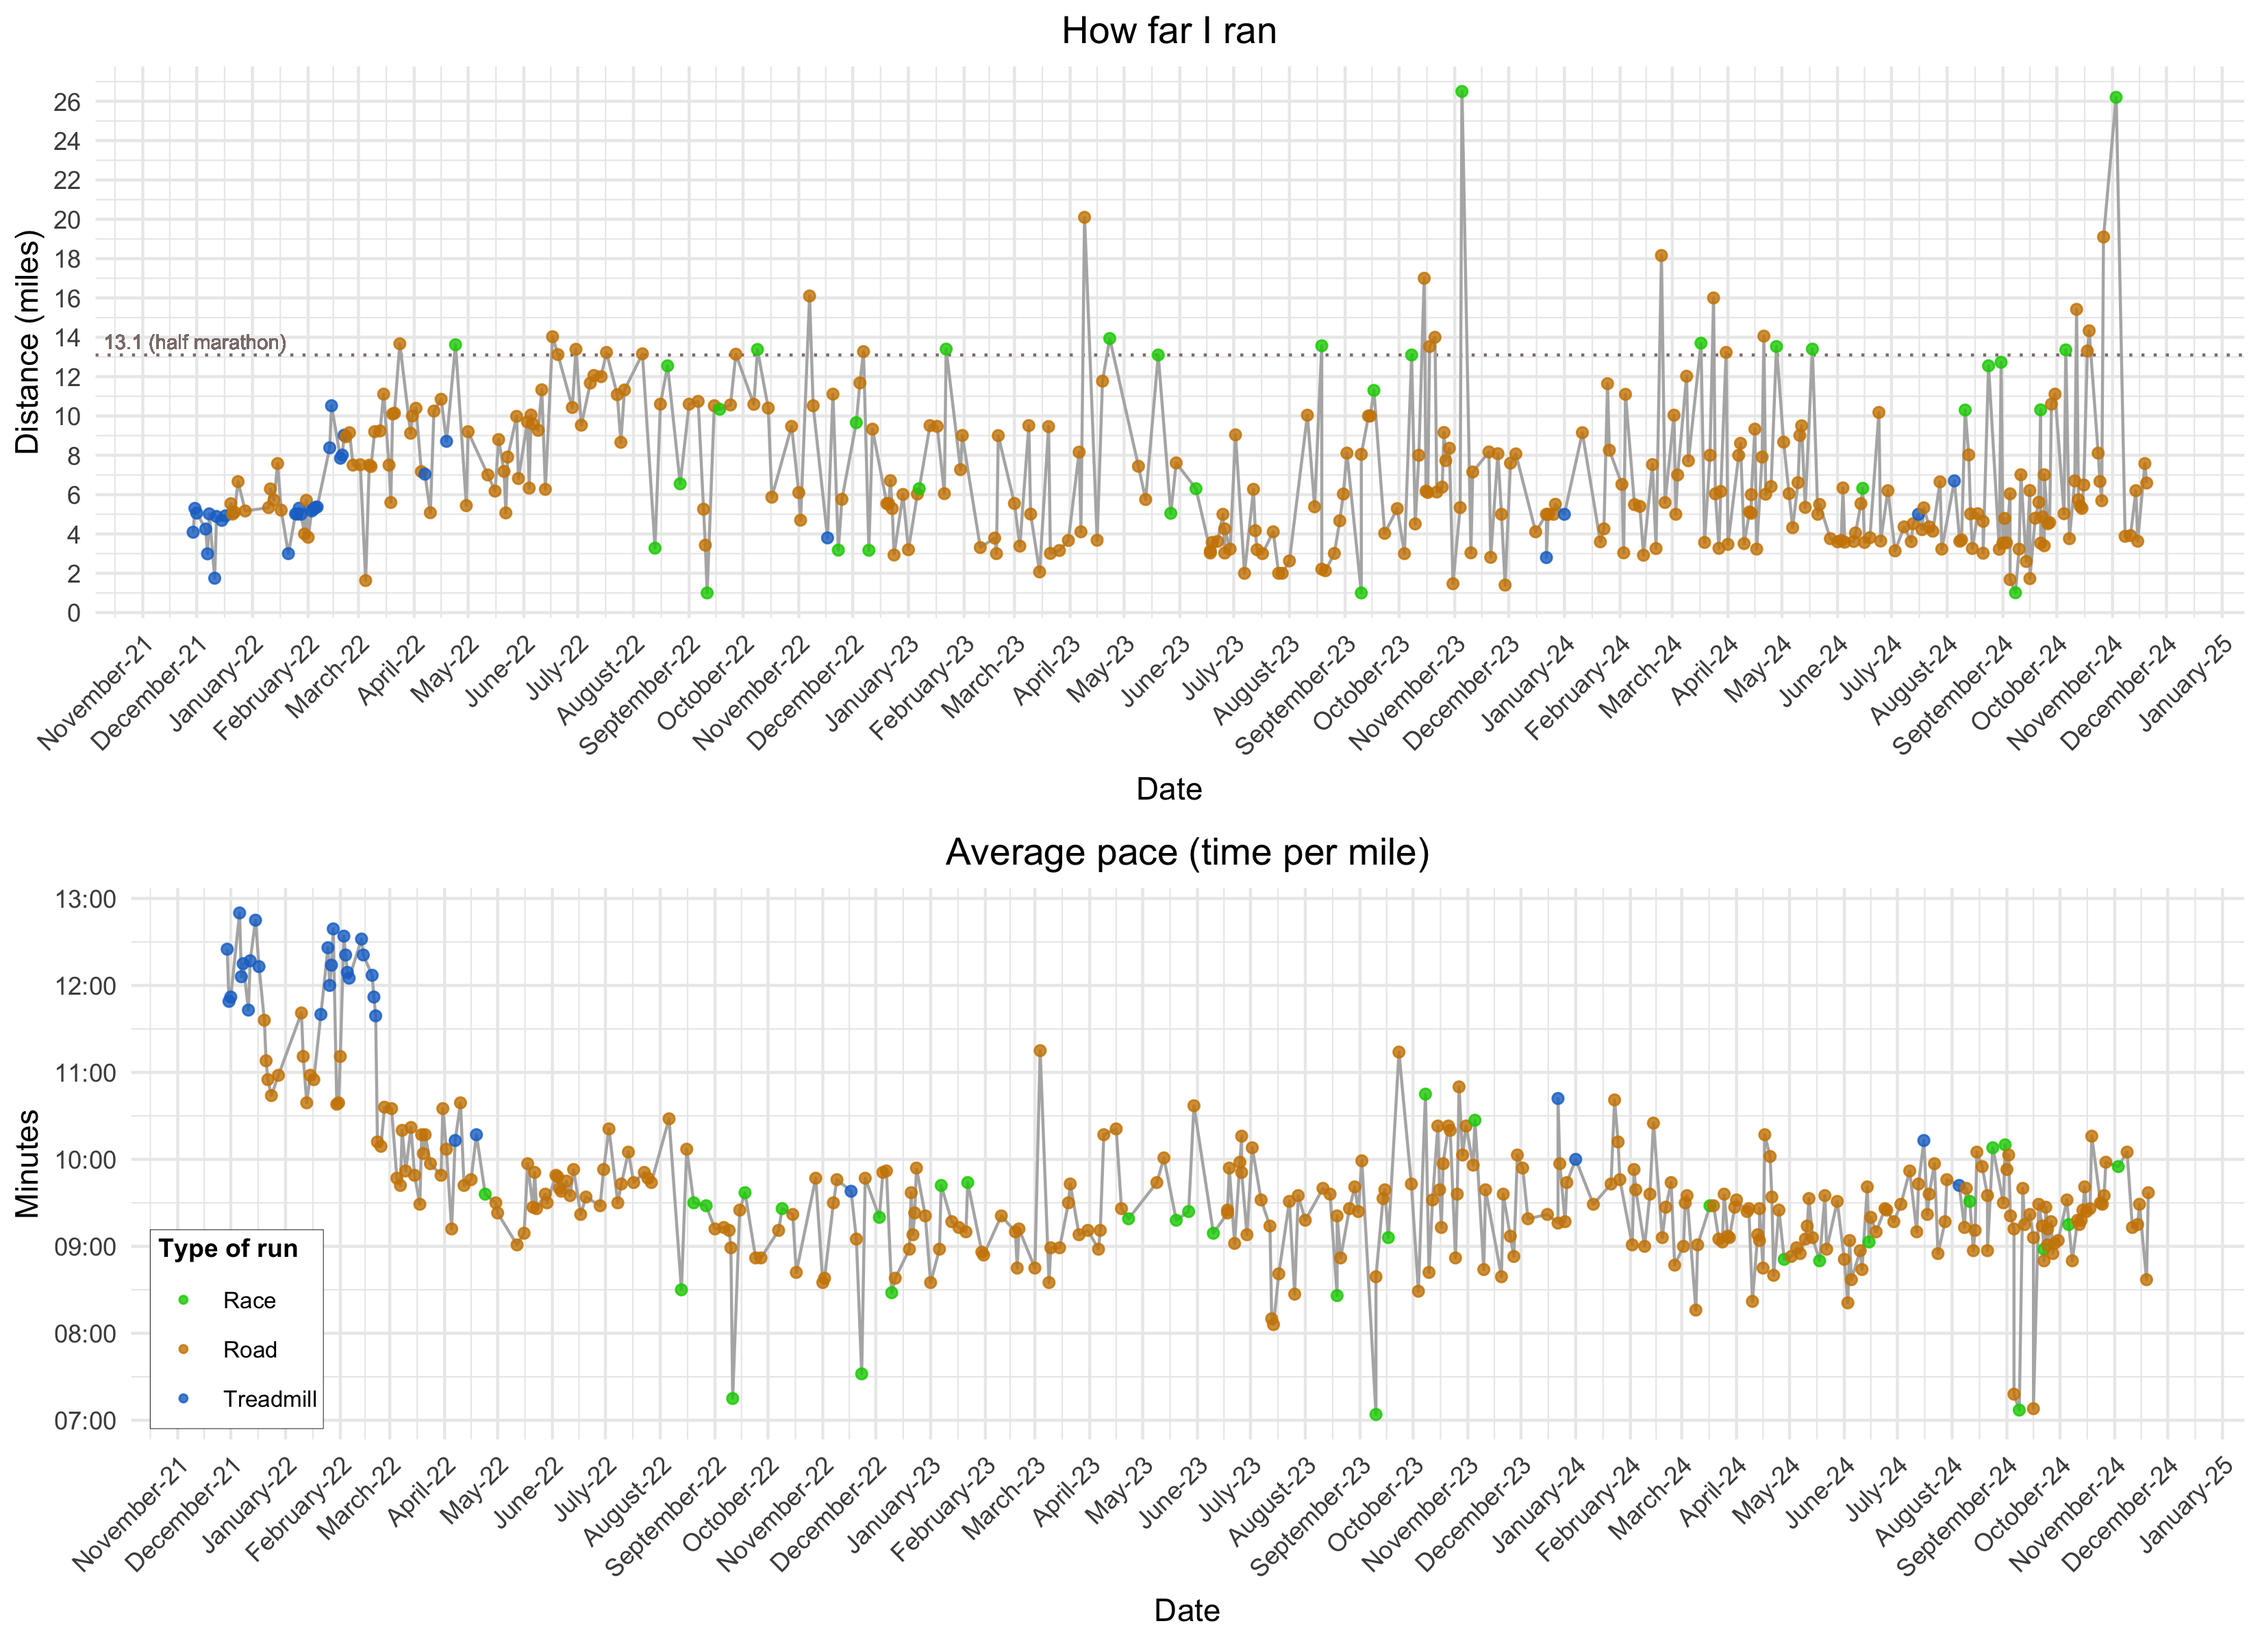
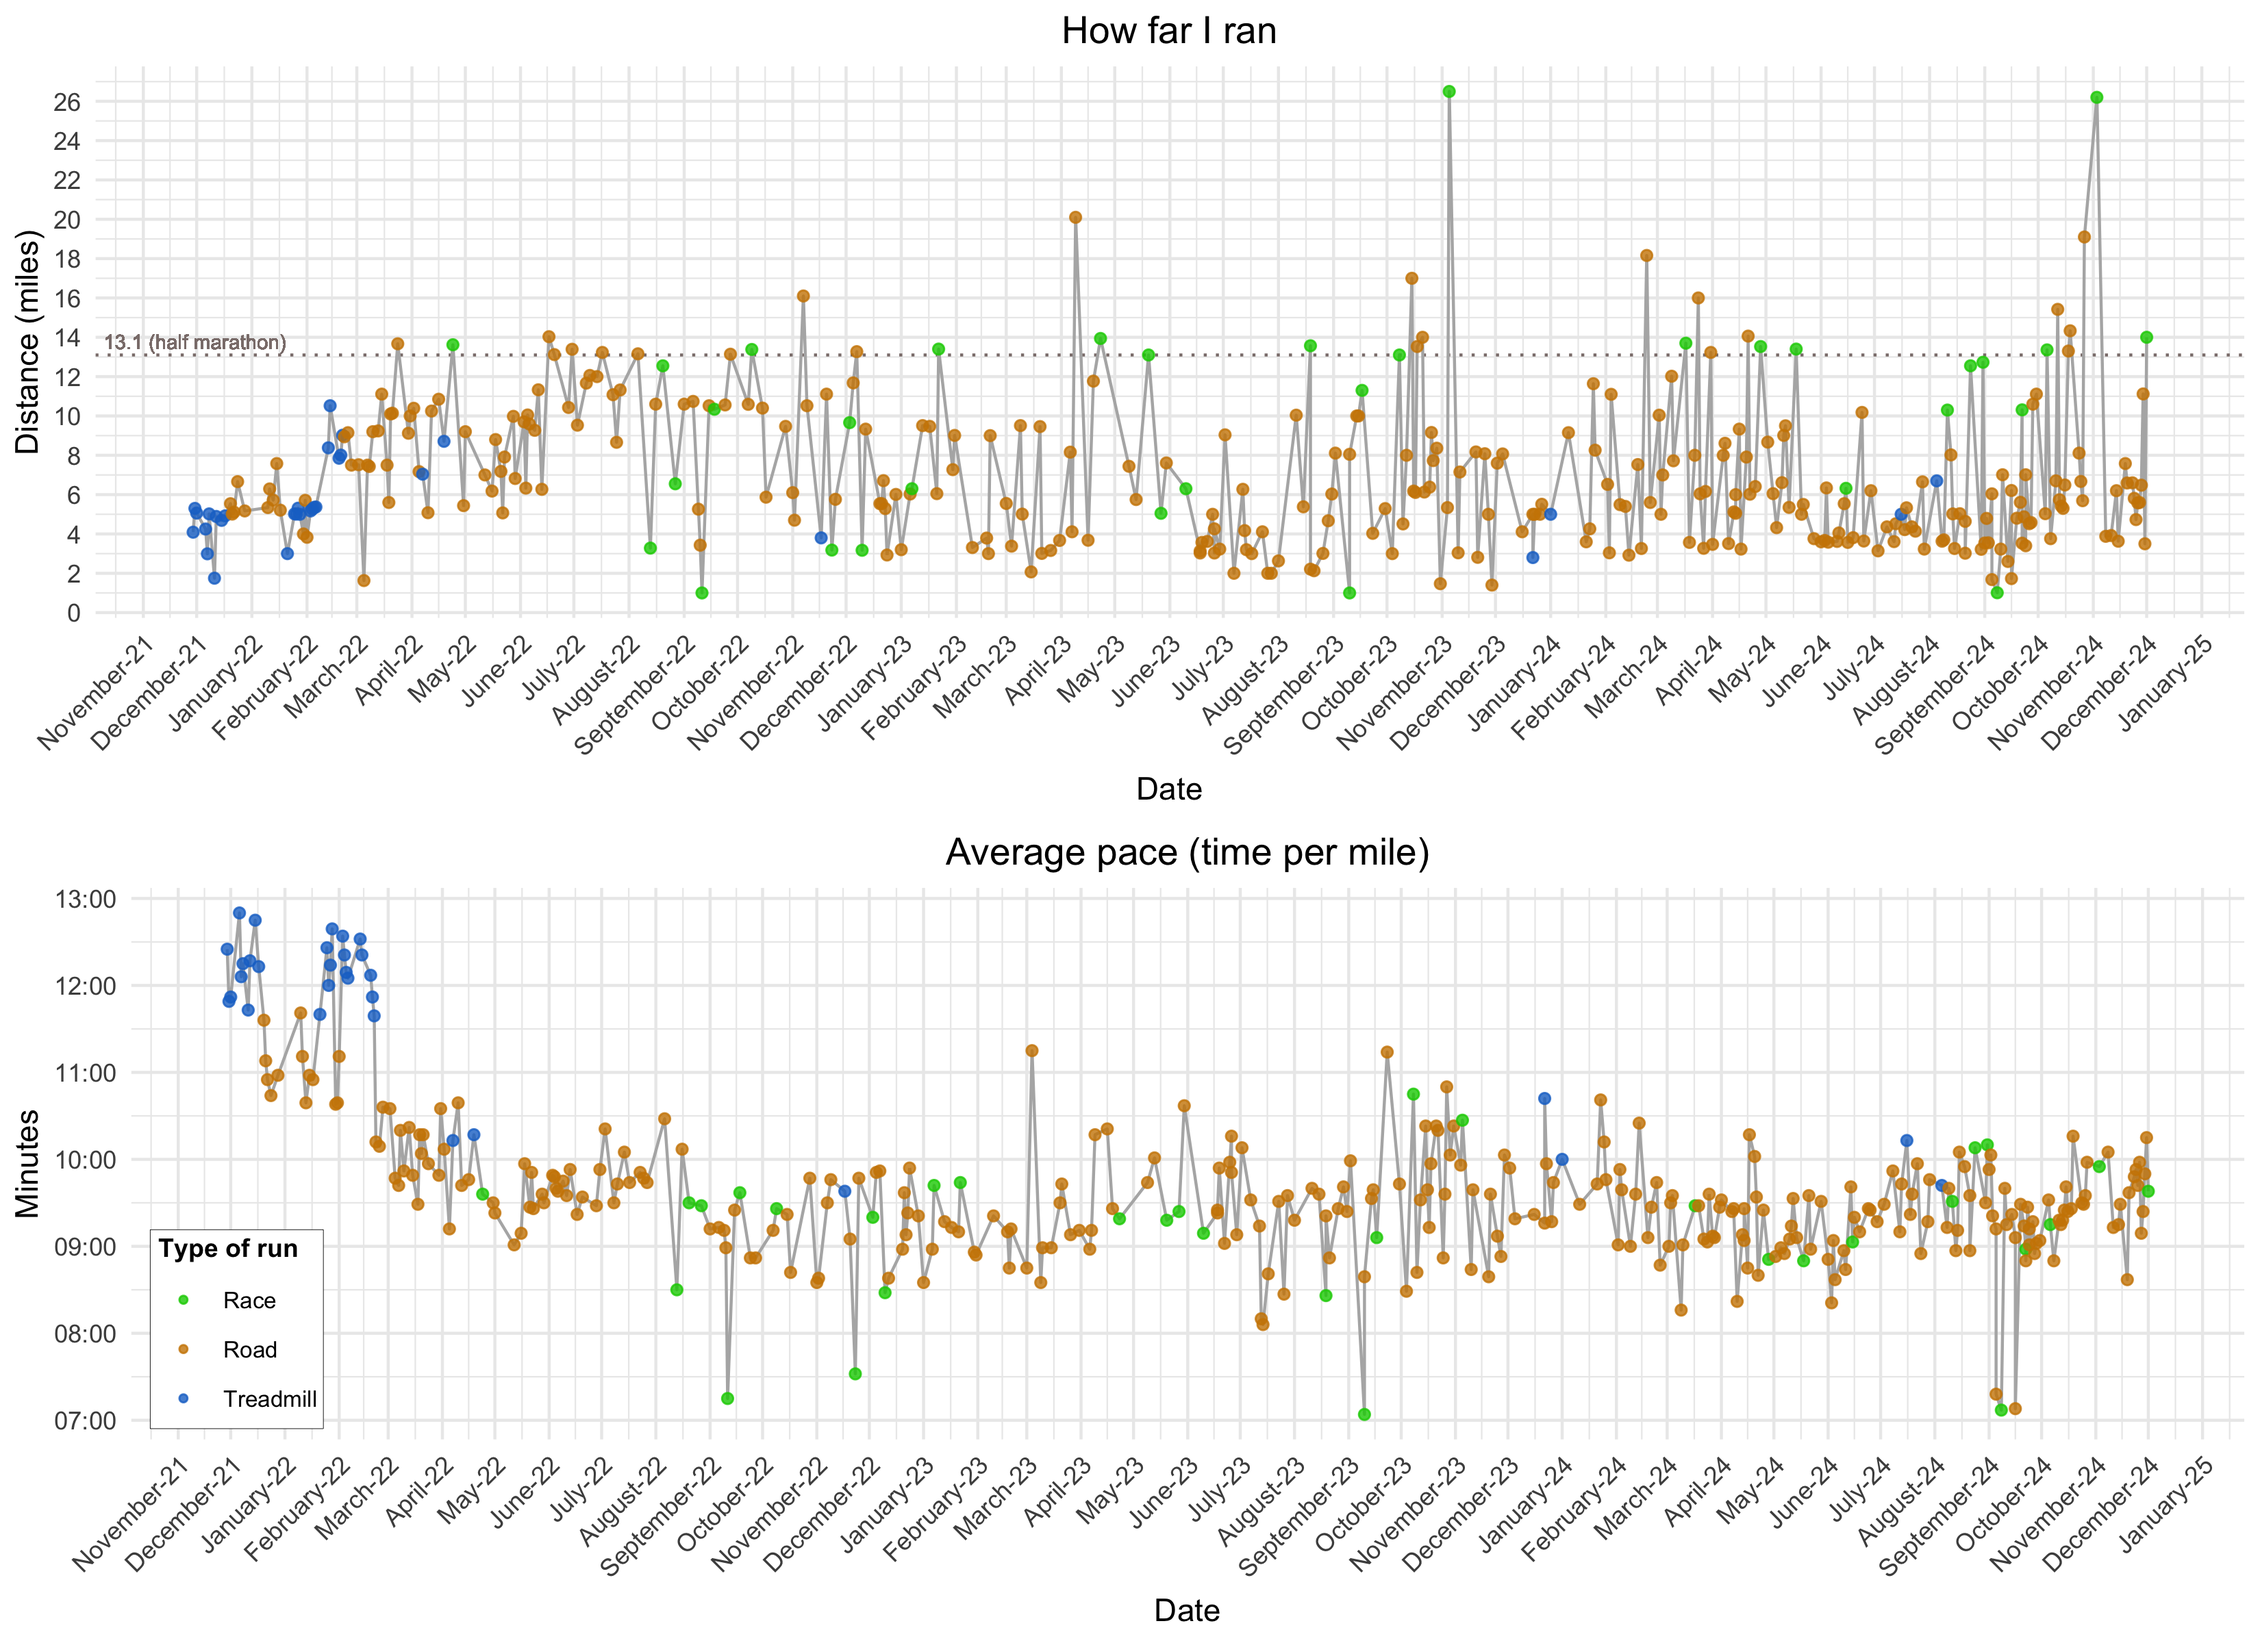
11/23/24 - 12/1/24

Changed region(s): [[0.0936, 0.5312, 0.9988, 0.9688], [0.0936, 0.0312, 0.9988, 0.4688]]

diff --git a/README.md b/README.md
@@ -46,7 +46,7 @@ Total miles since 11/29/21:
 sum(runningData$Miles)
 ```
 
-    ## [1] 2556.61
+    ## [1] 2620.03
 
 Average distance over last ten runs:
 
@@ -54,4 +54,4 @@ Average distance over last ten runs:
 mean(tail(runningData$Miles, 10))
 ```
 
-    ## [1] 8.946
+    ## [1] 7.001
